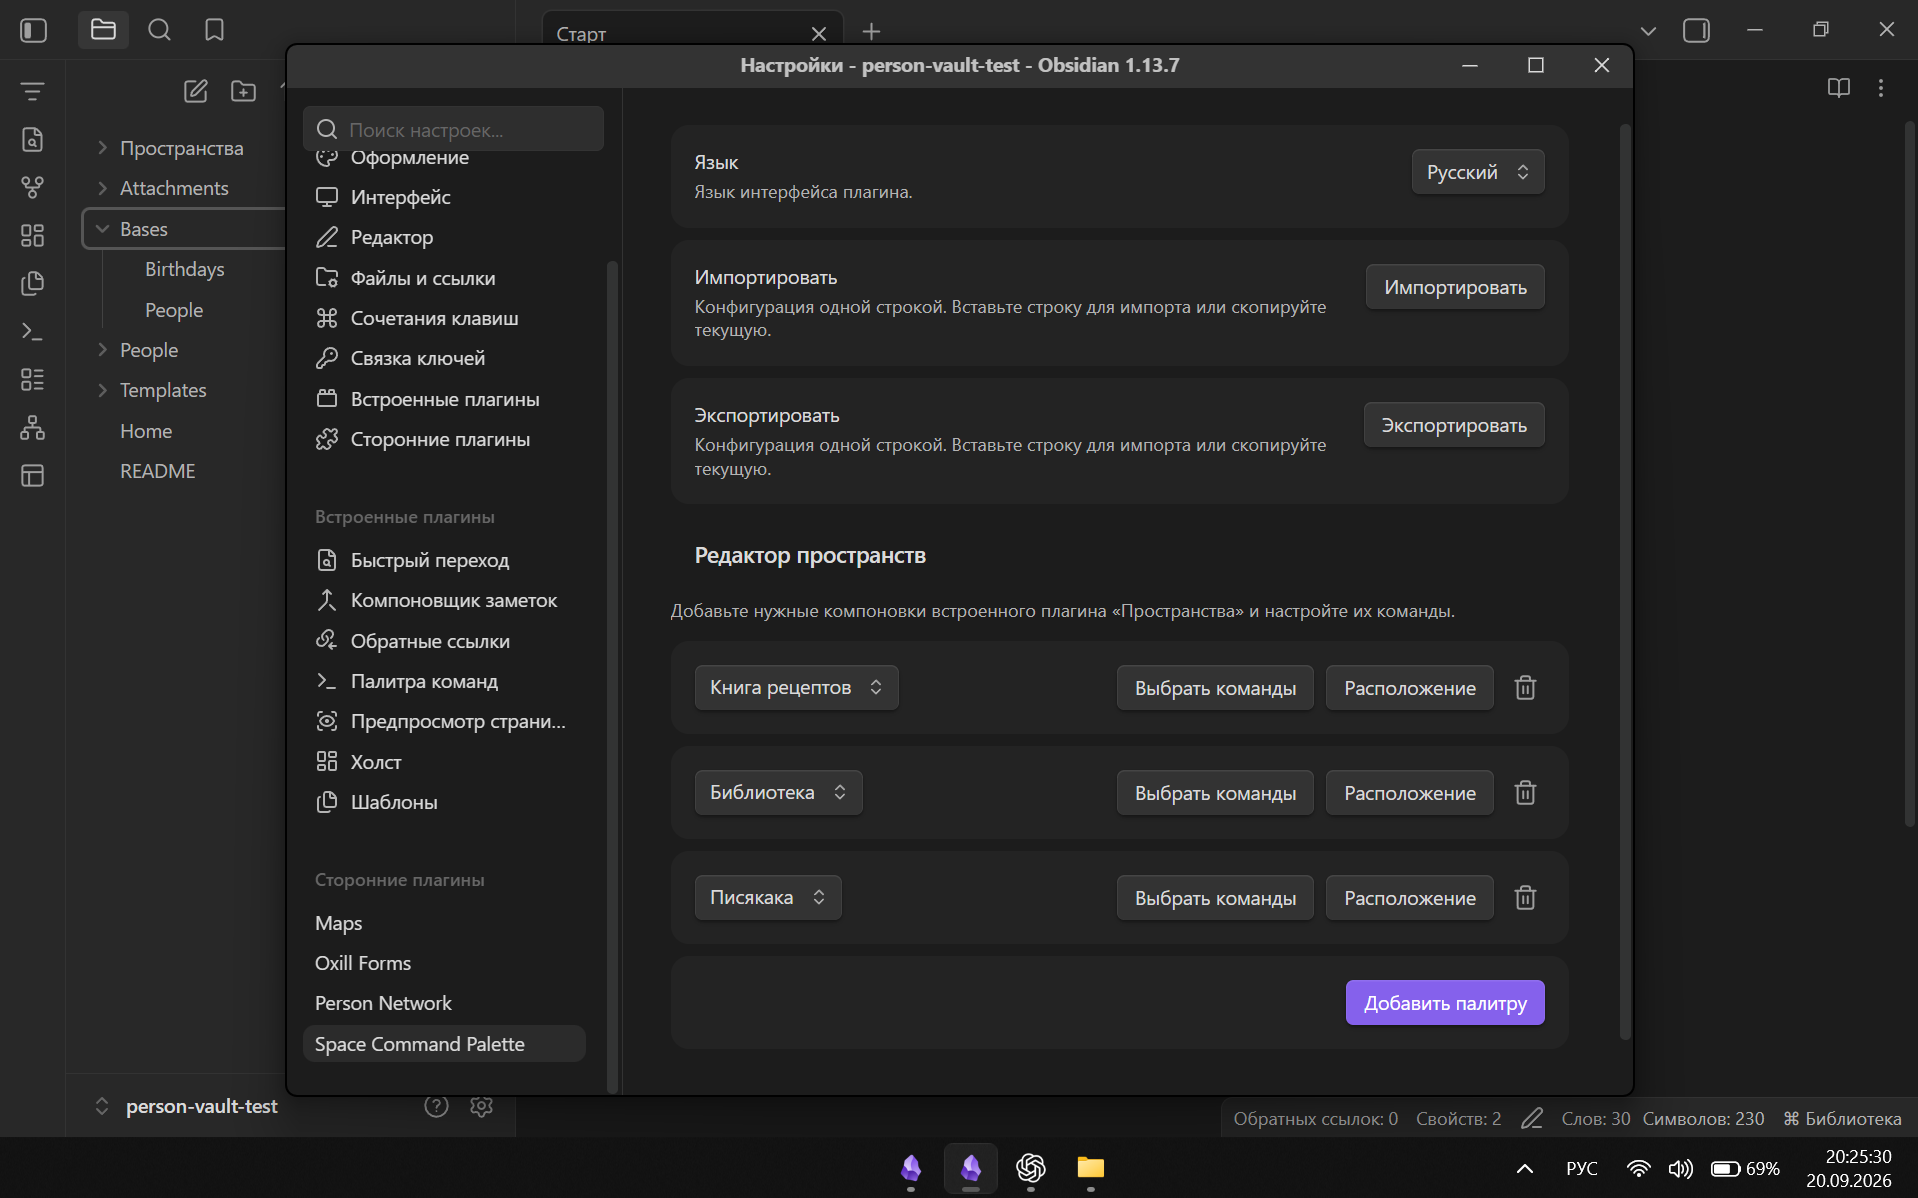
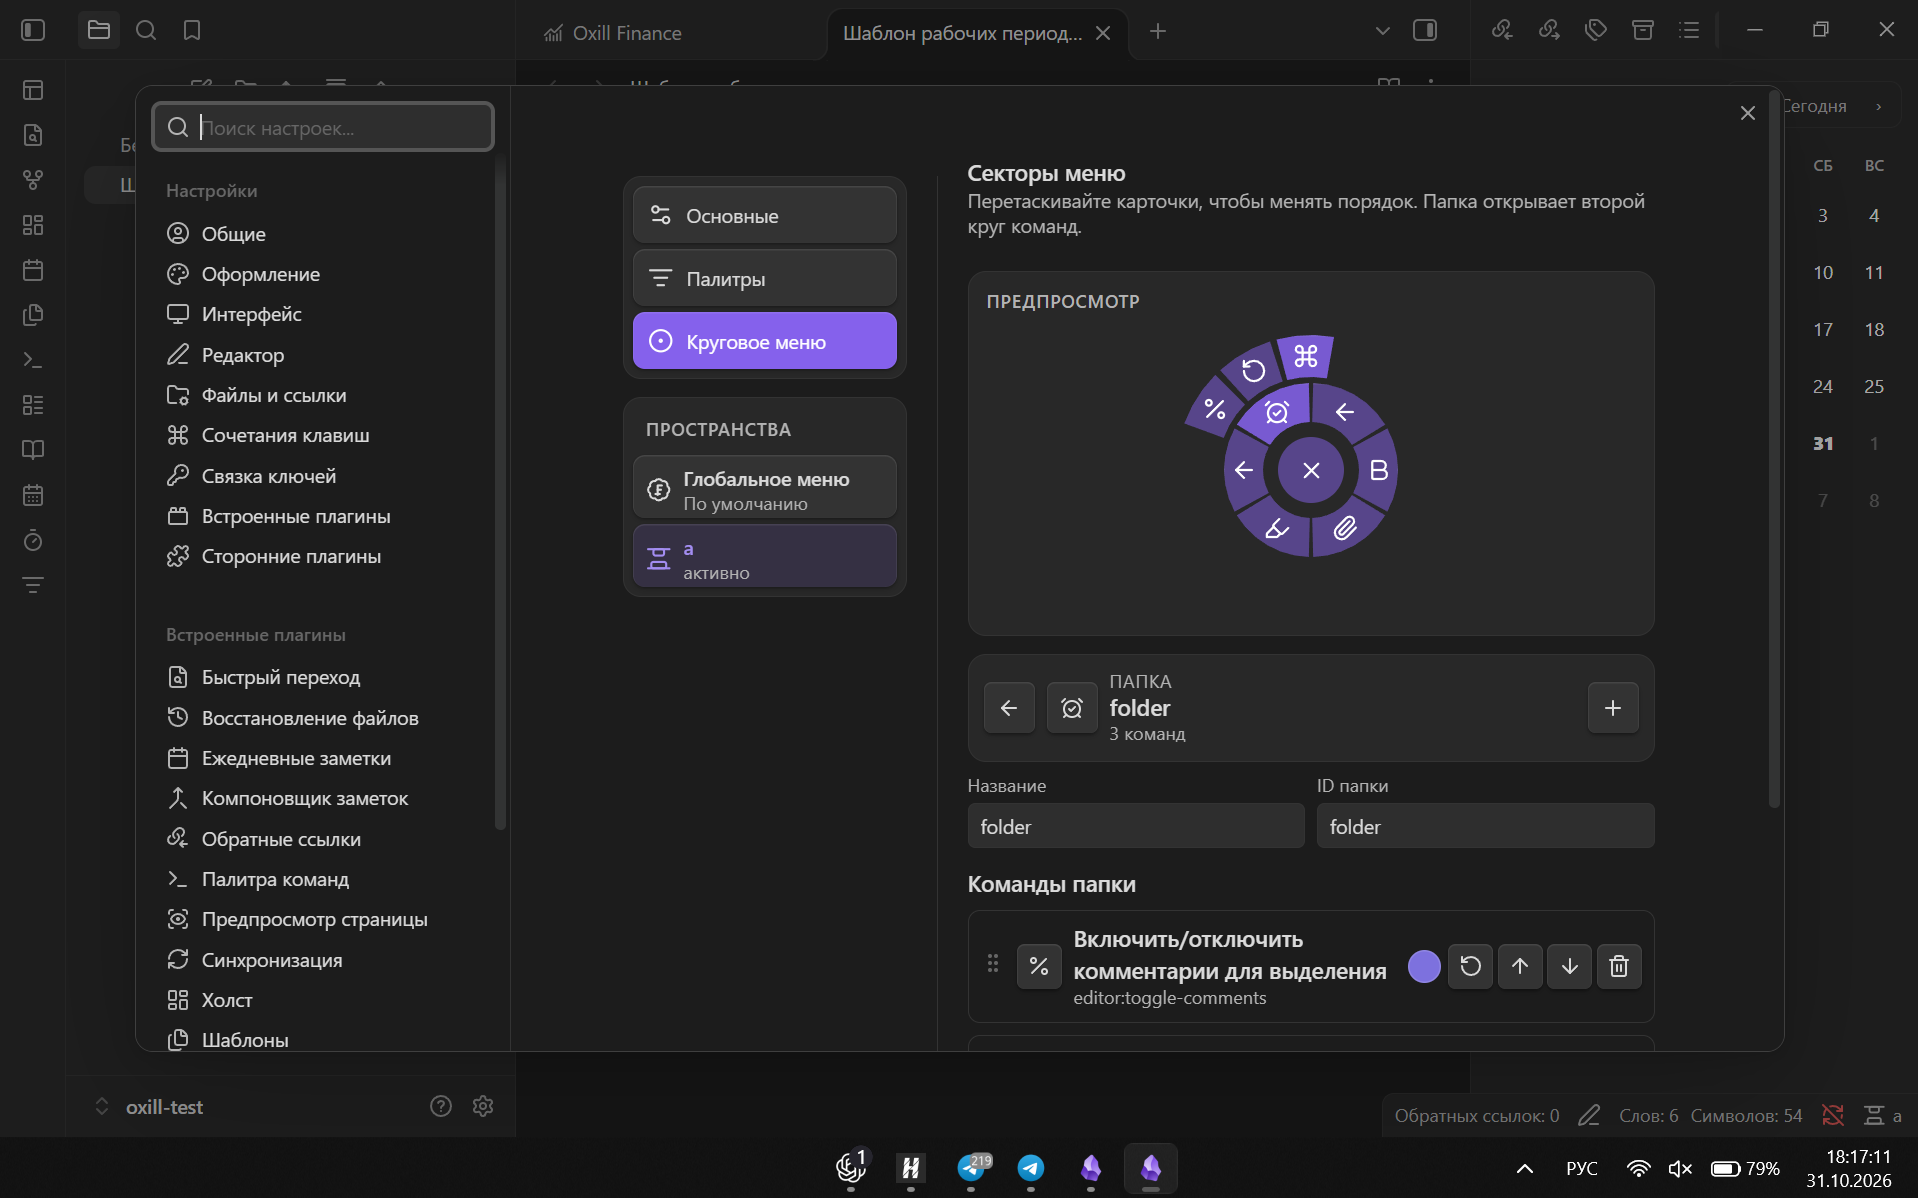
docs: refresh bilingual README

diff --git a/README.md b/README.md
@@ -1,64 +1,78 @@
-# Space Command Palette
+# Space Command Palette — Radial Menu and Workspace Command Palette for Obsidian
 
-[Русский](#русский) · [English](#english)
+[Русская версия](README_RU.md)
 
-## Русский
+**Space Command Palette** is a desktop Obsidian plugin that combines a context-aware command palette with a customizable radial menu. Create separate command sets for every saved Obsidian Workspace and open the actions you need directly beside the cursor.
 
-**Space Command Palette** — контекстная палитра и круговое меню команд для Obsidian. Плагин связывает сохранённые пространства (`Workspaces`) с отдельными наборами команд: при переключении рабочего контекста меняются и обычная палитра, и radial menu.
+> Requires Obsidian 1.13.0 or newer. Desktop only.
 
-> Только для настольной версии Obsidian 1.13.0+.
+![Space Command Palette radial menu for Obsidian with nested command folders](docs/images/radial-menu.png)
 
-<!-- СКРИНШОТ 1: круговое меню поверх рабочего пространства -->
+## Obsidian radial menu
 
-### Возможности
+Open the pie menu with a hotkey, point at a sector, and click to run its command. The menu supports:
 
-- отдельная палитра команд для каждого сохранённого пространства;
-- полностью настраиваемое круговое меню у курсора;
-- команды и вложенные папки команд в секторах;
-- выбор иконки и акцентного цвета для каждого сектора;
-- единичное или двойное нажатие назначенного хоткея;
-- анимация появления, звуки переключения и выбора;
-- интерактивный предпросмотр в настройках;
-- иконки пространств, переименование и удаление Workspace через контекстное меню;
-- импорт и экспорт конфигурации;
-- русский, английский и китайский интерфейс палитры;
-- локальное хранение без телеметрии и сетевых запросов.
+- Obsidian core and community-plugin commands;
+- nested command folders displayed as a second ring;
+- searchable Lucide and Obsidian icons;
+- individual sector colors;
+- single-press or double-press activation;
+- opening animation and optional navigation sounds.
 
-<!-- СКРИНШОТ 2: настройки пространства, палитры и кругового меню -->
+## Command palettes for Obsidian Workspaces
 
-### Установка и настройка
+Each saved Workspace can have its own classic command palette and radial menu. A writing layout, project dashboard, reading workspace, or knowledge base can therefore expose a different set of actions without filling one global command list.
 
-Скопируйте `main.js`, `manifest.json` и `styles.css` в `<vault>/.obsidian/plugins/space-command-palette/`, перезапустите Obsidian и включите плагин.
+When a Workspace has no custom radial configuration, Space Command Palette uses the global menu. When no contextual palette is configured, the standard Obsidian command palette remains available.
 
-1. Включите встроенный плагин Obsidian **«Пространства»** и сохраните хотя бы одну компоновку.
-2. Откройте `Настройки → Space Command Palette`.
-3. Выберите глобальное меню или конкретное пространство.
-4. Настройте команды палитры и сектора кругового меню.
-5. Назначьте хоткеи командам **Open contextual command palette** и **Open radial menu** в настройках Obsidian.
+![Space Command Palette settings with Workspaces, interactive preview, and radial menu editor](docs/images/settings.png)
 
-Если для активного пространства нет отдельной конфигурации, круговое меню использует глобальный набор, а обычная палитра открывает стандартную палитру Obsidian.
+## Workspace and menu customization
 
-Данные плагина хранятся в `.obsidian/plugins/space-command-palette/data.json`; заметки не изменяются. Переименование и удаление Workspace через контекстное меню синхронно изменяет сохранённые пространства встроенного плагина Obsidian. Настройки версий 0.1.x мигрируют автоматически.
+The settings screen includes an interactive radial-menu preview and tools to:
 
-> Obsidian не предоставляет публичный API активного сохранённого пространства. Для определения контекста используется внутренний экземпляр `workspaces`, поэтому после крупных обновлений Obsidian может потребоваться обновление совместимости.
+- add, remove, reorder, and group commands;
+- configure independent menus for saved Workspaces;
+- assign custom Workspace icons shown in the status bar;
+- rename or delete Workspaces from a context menu;
+- import or export the complete configuration as JSON.
 
----
+## Installation
 
-## English
+### Obsidian Community Plugins
 
-**Space Command Palette** is a contextual command palette and radial command menu for Obsidian. It assigns independent command sets to saved Workspaces, so both the palette and the pie menu follow your current working context.
+1. Open **Settings → Community plugins → Browse**.
+2. Search for **Space Command Palette**.
+3. Install and enable the plugin.
+4. Enable Obsidian's built-in **Workspaces** plugin.
 
-> Desktop-only. Requires Obsidian 1.13.0 or newer.
+### Manual installation
 
-<!-- SCREENSHOT 1: radial menu over an active workspace -->
+Download `main.js`, `manifest.json`, and `styles.css` from the [latest GitHub release](https://github.com/oxilldat/space-command-palette/releases/latest). Place them in:
 
-Features include per-workspace command palettes, a cursor-centered radial menu, nested command folders, configurable icons and colors, Workspace rename/delete actions, single or double hotkey activation, animation and optional sounds, an interactive settings preview, configuration import/export, and local-only storage without telemetry.
+```text
+<vault>/.obsidian/plugins/space-command-palette/
+```
 
-<!-- SCREENSHOT 2: workspace, palette, and radial-menu settings -->
+Restart Obsidian and enable **Space Command Palette** under Community plugins.
 
-Install `main.js`, `manifest.json`, and `styles.css` into `<vault>/.obsidian/plugins/space-command-palette/`, restart Obsidian, and enable the plugin. Enable Obsidian's built-in Workspaces plugin, choose a global or saved-workspace configuration in settings, then assign hotkeys to **Open contextual command palette** and **Open radial menu**.
+## Setup
 
-If the active Workspace has no custom radial menu, the global menu is used. If it has no contextual palette, Obsidian's standard command palette opens. Existing 0.1.x settings are migrated automatically.
+1. Save at least one layout with Obsidian Workspaces.
+2. Open **Settings → Space Command Palette**.
+3. Choose the global menu or a specific Workspace.
+4. Configure palette commands, radial sectors, folders, icons, and colors.
+5. Assign hotkeys to **Open active Workspace palette** and **Open active Workspace radial menu** in Obsidian's Hotkeys settings.
+
+## Privacy and local data
+
+Space Command Palette works locally, contains no telemetry, and makes no network requests. Plugin settings are stored in `.obsidian/plugins/space-command-palette/data.json`; note content is never modified.
+
+Renaming or deleting a Workspace from the plugin's context menu also updates the saved Workspace in Obsidian. Settings from Space Command Palette 0.1.x are migrated automatically.
+
+## Compatibility notice
+
+Obsidian does not currently expose a public API for identifying and managing the active saved Workspace. This plugin isolates its use of the internal Workspaces instance, but major Obsidian updates may require a compatibility update.
 
 ## License
 

diff --git a/README_RU.md b/README_RU.md
@@ -1,0 +1,80 @@
+# Space Command Palette — круговое меню и палитра команд для Obsidian
+
+[English version](README.md)
+
+**Space Command Palette** — настольный плагин для Obsidian, который объединяет контекстную палитру команд и настраиваемое круговое меню. Для каждого сохранённого рабочего пространства можно создать отдельный набор действий и открывать нужные команды рядом с курсором.
+
+> Требуется Obsidian 1.13.0 или новее. Только для компьютеров.
+
+![Круговое меню Space Command Palette для Obsidian с вложенной папкой команд](docs/images/radial-menu.png)
+
+## Круговое меню команд Obsidian
+
+Нажмите назначенную горячую клавишу, наведите курсор на сектор и выберите команду. Круговое меню поддерживает:
+
+- команды Obsidian и сторонних плагинов;
+- вложенные папки команд в виде второго кольца;
+- поиск среди иконок Lucide и Obsidian;
+- отдельный цвет каждого сектора;
+- одинарное или двойное нажатие горячей клавиши;
+- анимацию появления и необязательные звуки навигации.
+
+## Отдельные палитры для Workspaces
+
+Каждое сохранённое пространство Obsidian может иметь собственную классическую палитру команд и отдельное radial menu. Пространства для работы, чтения, ведения проектов и базы знаний больше не обязаны использовать один перегруженный список действий.
+
+Если для активного Workspace не настроено отдельное круговое меню, используется глобальный набор. Если контекстная палитра отсутствует, стандартная палитра команд Obsidian остаётся доступной.
+
+![Настройки Space Command Palette со списком пространств, предпросмотром и редактором кругового меню](docs/images/settings.png)
+
+## Настройка пространств и команд
+
+В настройках доступен интерактивный предпросмотр кругового меню. Здесь можно:
+
+- добавлять, удалять и перетаскивать команды;
+- объединять команды во вложенные папки;
+- создавать отдельные меню для сохранённых Workspaces;
+- назначать пространствам иконки, отображаемые в строке состояния;
+- переименовывать и удалять пространства через контекстное меню;
+- импортировать и экспортировать всю конфигурацию в JSON.
+
+## Установка
+
+### Через каталог плагинов Obsidian
+
+1. Откройте **Настройки → Сторонние плагины → Просмотр**.
+2. Найдите **Space Command Palette**.
+3. Установите и включите плагин.
+4. Включите встроенный плагин Obsidian **«Пространства»**.
+
+### Ручная установка
+
+Скачайте `main.js`, `manifest.json` и `styles.css` из [последнего релиза на GitHub](https://github.com/oxilldat/space-command-palette/releases/latest) и поместите их в папку:
+
+```text
+<vault>/.obsidian/plugins/space-command-palette/
+```
+
+Перезапустите Obsidian и включите **Space Command Palette** в разделе сторонних плагинов.
+
+## Первоначальная настройка
+
+1. Сохраните хотя бы одну компоновку через встроенный плагин «Пространства».
+2. Откройте **Настройки → Space Command Palette**.
+3. Выберите глобальное меню или конкретный Workspace.
+4. Настройте команды палитры, круговые секторы, папки, иконки и цвета.
+5. Назначьте горячие клавиши командам **Открыть палитру активного Workspace** и **Открыть круговое меню активного Workspace**.
+
+## Конфиденциальность и локальные данные
+
+Space Command Palette работает локально, не содержит телеметрии и не выполняет сетевые запросы. Настройки хранятся в `.obsidian/plugins/space-command-palette/data.json`; содержимое заметок не изменяется.
+
+Переименование или удаление Workspace через контекстное меню плагина также изменяет сохранённое пространство Obsidian. Настройки Space Command Palette 0.1.x мигрируют автоматически.
+
+## Совместимость
+
+Obsidian пока не предоставляет публичный API для определения и управления активным сохранённым Workspace. Работа с внутренним экземпляром Workspaces изолирована в отдельном модуле, однако после крупных обновлений Obsidian может потребоваться обновление совместимости.
+
+## Лицензия
+
+MIT © 2026 oxill. Подробнее в [LICENSE](LICENSE).
